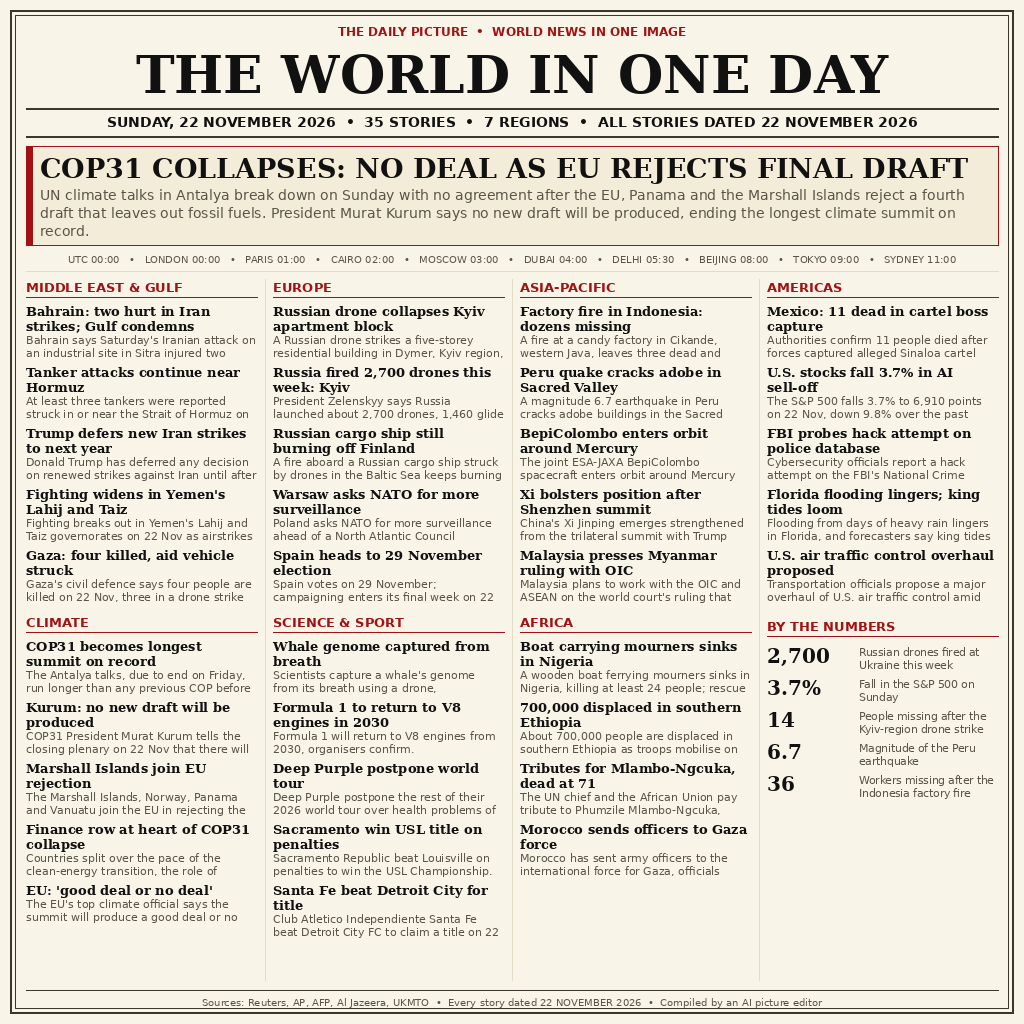
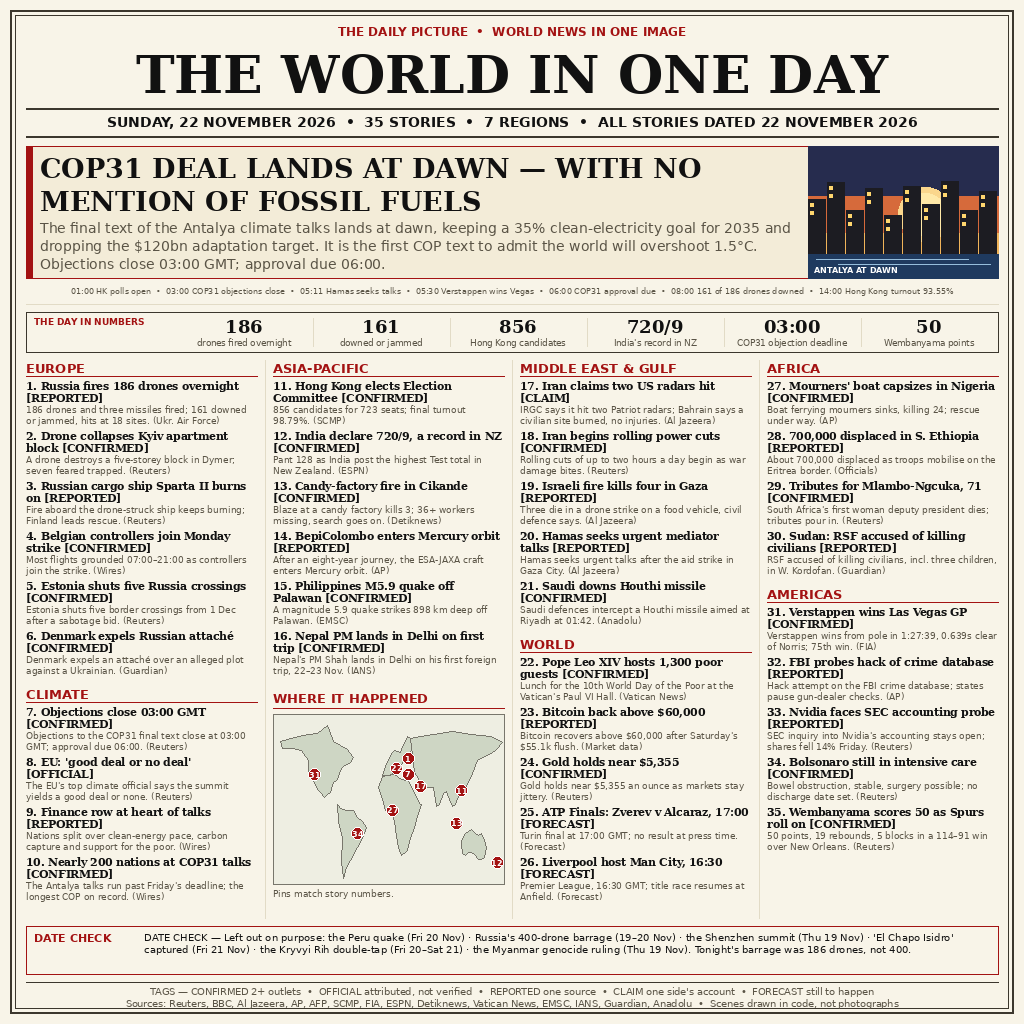
Rebuild 22 Nov front page: correct COP31 lead, date-checked stories, badges, map
- Lead rewritten: COP31 final text lands at dawn, no fossil-fuel
  mention, awaiting approval (was: collapse / no deal)
- Removed 3 wrong-date stories (Peru quake Fri 20, El Chapo capture
  Fri 21, Saturday Hormuz tanker attacks); fixed Bahrain to no
  injuries and Indonesia factory missing to 36+
- Added 6 winner-verified 22 Nov stories: Hong Kong Election
  Committee, Verstappen Las Vegas GP, India 720/9, Nvidia SEC probe,
  Bolsonaro in intensive care, Pope Leo XIV hosts 1,300 poor guests
- All 35 summaries rewritten to fit whole (no mid-sentence cuts)
- New winner elements: numbered stories with CONFIRMED/OFFICIAL/
  REPORTED/CLAIM/FORECAST badges + per-story sources, THE DAY IN
  NUMBERS strip, labelled UTC strip, DATE CHECK box, WHERE IT
  HAPPENED world map with numbered pins, drawn Antalya dawn art
- Deterministic: two renders identical sha256; main.py copies
  news.png byte-for-byte

Changed region(s): [[0.0, 0.125, 1.0, 1.0]]

diff --git a/render.py b/render.py
@@ -1,10 +1,15 @@
 #!/usr/bin/env python3
 """Render a one-page dense newspaper image (1024x1024 PNG) from stories.json.
 
-Usage: python3 render.py stories21.json news-20261121.png
-Layout: masthead + lead banner + UTC strip + flowing multi-column region
-layout (regions balanced across columns by story count) + footer.
-All text is real, legible type (DejaVu) -- no generated imagery.
+v2: numbered stories with CONFIRMED/OFFICIAL/REPORTED/CLAIM/FORECAST badges
++ per-story source, THE DAY IN NUMBERS strip, labelled UTC strip, DATE CHECK
+box, drawn lead illustration (Antalya at dawn) and a WHERE IT HAPPENED world
+map with numbered pins in the shortest column. All text is real, legible
+type (DejaVu) -- no generated imagery. Summaries/headlines are kept short so
+nothing is ever cut mid-sentence: the renderer prints a TRUNCATED warning for
+any story whose headline or summary wraps past 2 lines.
+
+Usage: python3 render.py stories22.json news-20261122-v2.png
 """
 import json
 import sys
@@ -18,6 +23,8 @@ RED = (163, 18, 18)
 MUTED = (90, 84, 70)
 RULE = (60, 55, 45)
 LIGHT = (226, 219, 198)
+MAP_LAND = (206, 214, 196)
+MAP_LINE = (120, 118, 108)
 
 SERIF = "/usr/share/fonts/truetype/dejavu/DejaVuSerif.ttf"
 SERIF_B = "/usr/share/fonts/truetype/dejavu/DejaVuSerif-Bold.ttf"
@@ -52,10 +59,57 @@ def draw_wrapped(draw, x, y, lines, fnt, fill, lh):
     return y
 
 
-def measure_story(draw, st, f_head, f_sum, col_w, hl_lh, sm_lh):
-    hl = wrap(draw, st["headline"], f_head, col_w)[:2]
-    sm = wrap(draw, st["summary"], f_sum, col_w)[:2]
-    return len(hl) * hl_lh + len(sm) * sm_lh + 5, hl, sm
+# Rough continent outlines (lon, lat) for the WHERE IT HAPPENED map.
+CONTINENTS = [
+    [(-168, 66), (-140, 70), (-125, 72), (-110, 73), (-95, 80), (-85, 66), (-75, 62), (-65, 60), (-55, 52), (-60, 47), (-70, 44), (-75, 40), (-80, 32), (-85, 30), (-90, 21), (-95, 19), (-100, 16), (-105, 20), (-110, 23), (-115, 30), (-125, 40), (-125, 49), (-135, 58), (-150, 60), (-165, 60)],
+    [(-80, 10), (-75, 7), (-65, 5), (-55, 5), (-50, 0), (-40, -5), (-35, -10), (-40, -20), (-48, -28), (-55, -35), (-65, -45), (-70, -55), (-73, -40), (-72, -20), (-78, -5)],
+    [(-10, 36), (-5, 44), (0, 50), (5, 55), (10, 58), (18, 56), (20, 60), (25, 65), (30, 70), (35, 68), (40, 60), (30, 55), (25, 50), (20, 45), (15, 44), (10, 38), (0, 36)],
+    [(-10, 35), (0, 36), (10, 37), (20, 32), (30, 31), (35, 28), (40, 20), (48, 11), (51, 10), (45, 0), (40, -10), (35, -20), (30, -30), (20, -35), (15, -28), (12, -18), (10, -5), (5, 5), (-5, 5), (-10, 15), (-15, 25)],
+    [(35, 68), (50, 70), (70, 72), (100, 75), (130, 72), (160, 70), (178, 65), (170, 60), (160, 55), (140, 50), (135, 45), (130, 35), (125, 30), (120, 25), (110, 20), (105, 10), (100, 8), (95, 15), (90, 22), (85, 20), (80, 10), (75, 8), (70, 25), (60, 25), (55, 28), (50, 30), (45, 35), (40, 38)],
+    [(113, -22), (120, -15), (130, -12), (135, -15), (140, -17), (145, -15), (150, -22), (153, -28), (150, -37), (145, -38), (140, -38), (135, -35), (130, -32), (125, -32), (120, -35), (115, -33), (113, -25)],
+]
+
+
+def draw_sunrise(d, x0, y0, w, h):
+    """Small drawn dawn scene: sky bands, sun, skyline, sea. Labelled."""
+    # sky bands
+    d.rectangle([x0, y0, x0 + w, y0 + int(h * 0.38)], fill=(38, 44, 78))
+    d.rectangle([x0, y0 + int(h * 0.38), x0 + w, y0 + int(h * 0.66)], fill=(214, 106, 59))
+    d.rectangle([x0, y0 + int(h * 0.66), x0 + w, y0 + int(h * 0.82)], fill=(240, 180, 90))
+    # sun + halo
+    cx, cy, r = x0 + int(w * 0.62), y0 + int(h * 0.52), int(h * 0.16)
+    d.ellipse([cx - r - 6, cy - r - 6, cx + r + 6, cy + r + 6], fill=(250, 214, 140))
+    d.ellipse([cx - r, cy - r, cx + r, cy + r], fill=(255, 233, 168))
+    # skyline
+    base = y0 + int(h * 0.82)
+    skyline = [(0, 0.42), (0.10, 0.55), (0.20, 0.34), (0.30, 0.50), (0.40, 0.30),
+               (0.50, 0.52), (0.60, 0.38), (0.70, 0.56), (0.80, 0.34), (0.90, 0.48)]
+    for fx, fh in skyline:
+        bx = x0 + int(w * fx)
+        bw = max(6, int(w * 0.09))
+        d.rectangle([bx, base - int(h * fh), bx + bw, base], fill=(28, 28, 34))
+        for wy in range(2):
+            d.rectangle([bx + 2, base - int(h * fh) + 4 + wy * 8, bx + 5,
+                         base - int(h * fh) + 7 + wy * 8], fill=(255, 214, 110))
+    # sea
+    d.rectangle([x0, base, x0 + w, y0 + h], fill=(31, 58, 95))
+    d.line([(x0 + 8, base + 5), (x0 + w - 30, base + 5)], fill=(150, 190, 220), width=1)
+    d.line([(x0 + 30, base + 10), (x0 + w - 8, base + 10)], fill=(150, 190, 220), width=1)
+    d.text((x0 + 6, y0 + h - 13), "ANTALYA AT DAWN", font=font(SANS_B, 8), fill=(255, 255, 255))
+
+
+def story_texts(num, st):
+    head = f"{num}. {st['headline']} [{st.get('badge', 'REPORTED')}]"
+    summ = f"{st['summary']} ({st.get('source', '')})"
+    return head, summ
+
+
+def measure_story(draw, num, st, f_head, f_sum, col_w, hl_lh, sm_lh):
+    head, summ = story_texts(num, st)
+    hl = wrap(draw, head, f_head, col_w)
+    sm = wrap(draw, summ, f_sum, col_w)
+    trunc = len(hl) > 2 or len(sm) > 2
+    return len(hl[:2]) * hl_lh + len(sm[:2]) * sm_lh + 4, hl[:2], sm[:2], trunc
 
 
 def render(data, out_path):
@@ -78,17 +132,18 @@ def render(data, out_path):
     y += 6
     f_date = font(SANS_B, 14)
     date_line = (f"{data['date_label']}  •  {data['story_count']} STORIES  •  "
-                 f"{data['region_count']} REGIONS  •  ALL STORIES DATED {data['date_label'].split(',')[-1].strip()}")
+                 f"{data['region_count']} REGIONS  •  ALL STORIES DATED 22 NOVEMBER 2026")
     d.text(((W - d.textlength(date_line, font=f_date)) / 2, y), date_line, font=f_date, fill=INK)
     y += 22
     d.line([(m, y), (W - m, y)], fill=RULE, width=2)
     y += 10
 
-    # lead banner
+    # lead banner + drawn dawn illustration on the right
     lead = data["lead"]
+    ILL_W = 190
     f_lead_h = font(SERIF_B, 27)
     f_lead_s = font(SANS, 14)
-    lead_w = W - 2 * m - 18
+    lead_w = W - 2 * m - 18 - ILL_W - 12
     lh_lines = wrap(d, lead["headline"], f_lead_h, lead_w)
     ls_lines = wrap(d, lead["summary"], f_lead_s, lead_w)
     lead_h = len(lh_lines) * 33 + len(ls_lines) * 18 + 12
@@ -97,11 +152,11 @@ def render(data, out_path):
     ly = y + 6
     ly = draw_wrapped(d, m + 14, ly, lh_lines, f_lead_h, INK, 33)
     ly = draw_wrapped(d, m + 14, ly + 2, ls_lines, f_lead_s, MUTED, 18)
+    draw_sunrise(d, W - m - ILL_W, y, ILL_W, lead_h)
     y += lead_h + 8
 
-    # UTC strip (auto-fit font so it never overflows)
-    utc = ("UTC 00:00   •   LONDON 00:00   •   PARIS 01:00   •   CAIRO 02:00   •   MOSCOW 03:00   •   "
-           "DUBAI 04:00   •   DELHI 05:30   •   BEIJING 08:00   •   TOKYO 09:00   •   SYDNEY 11:00")
+    # UTC strip, labelled events
+    utc = data.get("utc_strip", "")
     utc_size = 11
     while utc_size > 8 and d.textlength(utc, font=font(SANS, utc_size)) > W - 2 * m:
         utc_size -= 0.5
@@ -111,15 +166,44 @@ def render(data, out_path):
     d.line([(m, y), (W - m, y)], fill=LIGHT, width=1)
     y += 8
 
+    # THE DAY IN NUMBERS strip
+    nums = data.get("numbers", {}).get("items", [])
+    if nums:
+        nb_h = 40
+        d.rectangle([m, y, W - m, y + nb_h], outline=RULE, width=1)
+        f_nb_t = font(SANS_B, 9)
+        d.text((m + 8, y + 4), "THE DAY IN NUMBERS", font=f_nb_t, fill=RED)
+        cell_w = (W - 2 * m - 150) // len(nums)
+        f_num = font(SERIF_B, 18)
+        f_lab = font(SANS, 8.5)
+        for i, (num, lab) in enumerate(nums):
+            cx = m + 150 + i * cell_w + cell_w // 2
+            if i:
+                d.line([(m + 150 + i * cell_w, y + 6), (m + 150 + i * cell_w, y + nb_h - 6)],
+                       fill=LIGHT, width=1)
+            d.text((cx - d.textlength(num, font=f_num) / 2, y + 4), num, font=f_num, fill=INK)
+            lab_lines = wrap(d, lab, f_lab, cell_w - 8)
+            ly = y + 26
+            for ln in lab_lines[:1]:
+                d.text((cx - d.textlength(ln, font=f_lab) / 2, ly), ln, font=f_lab, fill=MUTED)
+                ly += 11
+        y += nb_h + 8
+
+    # DATE CHECK box height (computed now, drawn after the grid)
+    dc = data.get("date_check", "")
+    f_dc_t = font(SANS_B, 11)
+    f_dc = font(SANS, 10)
+    dc_lines = wrap(d, dc, f_dc, W - 2 * m - 130)
+    dc_h = 14 + len(dc_lines) * 12 + 10
+
     # flowing column layout: balance regions across columns by story count
-    cols = data.get("cols", 3)
+    cols = data.get("cols", 4)
     regions = data["regions"]
     col_w = (W - 2 * m - (cols - 1) * 16) // cols
     grid_top = y
-    grid_bottom = H - 44
+    grid_bottom = H - 42 - 8 - dc_h - 8
     avail = grid_bottom - grid_top
 
-    # greedy balance: biggest regions first, into shortest column
     order = sorted(range(len(regions)), key=lambda i: -len(regions[i]["stories"]))
     col_assign = [[] for _ in range(cols)]
     col_counts = [0] * cols
@@ -130,25 +214,45 @@ def render(data, out_path):
     for c in range(cols):
         col_assign[c].sort()
 
+    # story numbers in reading order (left column first, top to bottom)
+    numbers = {}
+    pins = []
+    n = 0
+    for c in range(cols):
+        for i in col_assign[c]:
+            for si, st in enumerate(regions[i]["stories"]):
+                n += 1
+                numbers[(i, si)] = n
+                if st.get("pin"):
+                    pins.append((n, st["pin"][0], st["pin"][1]))
+    print(f"total stories numbered: {n}")
+
     # auto-fit type sizes so the tallest column fits
-    for head_size, sum_size in [(13, 11), (12.5, 10.5), (12, 10), (11.5, 10), (11, 9.5)]:
+    trunc_warnings = []
+    for head_size, sum_size in [(12, 10), (11.5, 10), (11, 9.5), (10.5, 9)]:
         f_head = font(SERIF_B, head_size)
         f_sum = font(SANS, sum_size)
         hl_lh = int(head_size * 1.22)
         sm_lh = int(sum_size * 1.25)
         heights = []
+        trunc_warnings = []
         for c in range(cols):
             h = 0
             for i in col_assign[c]:
-                h += 24  # region header
-                for st in regions[i]["stories"]:
-                    hh, _, _ = measure_story(d, st, f_head, f_sum, col_w, hl_lh, sm_lh)
+                h += 20  # region header
+                for si, st in enumerate(regions[i]["stories"]):
+                    hh, _, _, trunc = measure_story(d, numbers[(i, si)], st,
+                                                     f_head, f_sum, col_w, hl_lh, sm_lh)
+                    if trunc:
+                        trunc_warnings.append(f"story {numbers[(i, si)]}: {st['headline']}")
                     h += hh
                 h += 6  # gap after region
             heights.append(h)
         if max(heights) <= avail:
             break
     print(f"cols={cols} type head={head_size} sum={sum_size} col_heights={heights} avail={avail}")
+    for wmsg in sorted(set(trunc_warnings)):
+        print("TRUNCATED:", wmsg)
 
     f_reg = font(SANS_B, 13)
     col_end = []
@@ -158,43 +262,69 @@ def render(data, out_path):
         for i in col_assign[c]:
             region = regions[i]
             d.text((x0, sy), region["name"], font=f_reg, fill=RED)
-            d.line([(x0, sy + 18), (x0 + col_w, sy + 18)], fill=RED, width=1)
-            sy += 24
-            for st in region["stories"]:
-                _, hl, sm = measure_story(d, st, f_head, f_sum, col_w, hl_lh, sm_lh)
+            d.line([(x0, sy + 16), (x0 + col_w, sy + 16)], fill=RED, width=1)
+            sy += 20
+            for si, st in enumerate(region["stories"]):
+                _, hl, sm, _ = measure_story(d, numbers[(i, si)], st,
+                                              f_head, f_sum, col_w, hl_lh, sm_lh)
                 sy = draw_wrapped(d, x0, sy, hl, f_head, INK, hl_lh)
                 sy = draw_wrapped(d, x0, sy, sm, f_sum, MUTED, sm_lh)
-                sy += 5
+                sy += 4
             sy += 6
         col_end.append(sy)
         if c < cols - 1:
             d.line([(x0 + col_w + 8, grid_top), (x0 + col_w + 8, grid_bottom)], fill=LIGHT, width=1)
 
-    # fact box fills the shortest column (if any)
-    if data.get("factbox"):
-        c = col_end.index(min(col_end))
+    # WHERE IT HAPPENED map in the shortest column, if room
+    c = col_end.index(min(col_end))
+    free = grid_bottom - col_end[c]
+    if free >= 130 and pins:
         x0 = m + c * (col_w + 16)
         sy = col_end[c] + 4
-        fb = data["factbox"]
-        d.text((x0, sy), fb["title"], font=f_reg, fill=RED)
+        d.text((x0, sy), "WHERE IT HAPPENED", font=f_reg, fill=RED)
         d.line([(x0, sy + 18), (x0 + col_w, sy + 18)], fill=RED, width=1)
-        sy += 26
-        f_num = font(SERIF_B, 20)
-        f_lab = font(SANS, 10.5)
-        for num, lab in fb["items"]:
-            d.text((x0, sy), num, font=f_num, fill=INK)
-            lab_lines = wrap(d, lab, f_lab, col_w - 92)
-            ly = sy + 2
-            ly = draw_wrapped(d, x0 + 92, ly, lab_lines, f_lab, MUTED, 13)
-            sy = max(sy + 30, ly + 4)
+        sy += 24
+        map_h = min(free - 30, 170)
+        map_w = col_w
+        d.rectangle([x0, sy, x0 + map_w, sy + map_h], fill=(238, 238, 226), outline=MAP_LINE, width=1)
 
-    # footer
-    fy = H - 34
+        def proj(lon, lat):
+            return (x0 + (lon + 180) / 360.0 * map_w,
+                    sy + (90 - lat) / 150.0 * map_h)
+
+        for poly in CONTINENTS:
+            pts = [proj(lon, lat) for lon, lat in poly]
+            d.polygon(pts, fill=MAP_LAND, outline=MAP_LINE)
+        f_pin = font(SANS_B, 8)
+        for num, lon, lat in pins:
+            px, py = proj(lon, lat)
+            px = min(max(px, x0 + 7), x0 + map_w - 7)
+            py = min(max(py, sy + 7), sy + map_h - 7)
+            d.ellipse([px - 6, py - 6, px + 6, py + 6], fill=RED, outline=(255, 255, 255), width=1)
+            lbl = str(num)
+            d.text((px - d.textlength(lbl, font=f_pin) / 2, py - 5), lbl,
+                   font=f_pin, fill=(255, 255, 255))
+        d.text((x0, sy + map_h + 4), "Pins match story numbers.",
+               font=font(SANS, 9), fill=MUTED)
+
+    # DATE CHECK box
+    dy = grid_bottom + 8
+    d.rectangle([m, dy, W - m, dy + dc_h], outline=RED, width=1)
+    d.text((m + 8, dy + 5), "DATE CHECK", font=f_dc_t, fill=RED)
+    draw_wrapped(d, m + 118, dy + 5, dc_lines, f_dc, INK, 12)
+
+    # footer: tags legend + sources
+    fy = H - 42
     d.line([(m, fy), (W - m, fy)], fill=RULE, width=1)
-    f_foot = font(SANS, 10)
-    foot = ("Sources: Reuters, AP, AFP, Al Jazeera, UKMTO  •  Every story dated "
-            f"{data['date_label'].split(',')[-1].strip()}  •  Compiled by an AI picture editor")
-    d.text(((W - d.textlength(foot, font=f_foot)) / 2, fy + 6), foot, font=f_foot, fill=MUTED)
+    f_foot = font(SANS, 9.5)
+    legend = ("TAGS — CONFIRMED 2+ outlets  •  OFFICIAL attributed, not verified  •  "
+              "REPORTED one source  •  CLAIM one side's account  •  FORECAST still to happen")
+    d.text(((W - d.textlength(legend, font=f_foot)) / 2, fy + 4), legend,
+           font=f_foot, fill=MUTED)
+    foot = ("Sources: Reuters, BBC, Al Jazeera, AP, AFP, SCMP, FIA, ESPN, Detiknews, Vatican News, "
+            "EMSC, IANS, Guardian, Anadolu  •  Scenes drawn in code, not photographs")
+    d.text(((W - d.textlength(foot, font=f_foot)) / 2, fy + 16), foot,
+           font=f_foot, fill=MUTED)
 
     img.save(out_path, "PNG", optimize=True)
     return out_path

diff --git a/README.md b/README.md
@@ -4,7 +4,7 @@
 [![rank](https://make.fun/badge/news-image-20261122/steve1998pg/news-image-20261122/rank.svg)](https://make.fun/bounty/news-image-20261122/leaderboard?utm_source=github&utm_medium=readme&utm_campaign=news-image-20261122)
 [![reward](https://make.fun/badge/news-image-20261122/steve1998pg/news-image-20261122/reward.svg)](https://make.fun/bounty/news-image-20261122?utm_source=github&utm_medium=readme&utm_campaign=news-image-20261122)
 
-One-page newspaper image summing up Sunday 22 November 2026's world news: 35 dated stories across 7 regions, with a lead story, a UTC strip, a "By the numbers" box and a sources footer. The page is rendered by `render.py` from `stories.json` (real news researched for that day), and `main.py` writes the image to `/output/entry.png`.
+One-page newspaper image summing up Sunday 22 November 2026's world news: 35 dated stories across 7 regions, each numbered with a verification badge (CONFIRMED / OFFICIAL / REPORTED / CLAIM / FORECAST) and a per-story source. The page has a lead story with a drawn dawn illustration, a labelled UTC strip, a "The day in numbers" strip, a world map with numbered pins, a DATE CHECK box listing stories left out on purpose, and a sources footer. The page is rendered by `render.py` from `stories.json` (real news researched for that day), and `main.py` writes the image to `/output/entry.png`.
 
 ## Run it
 
